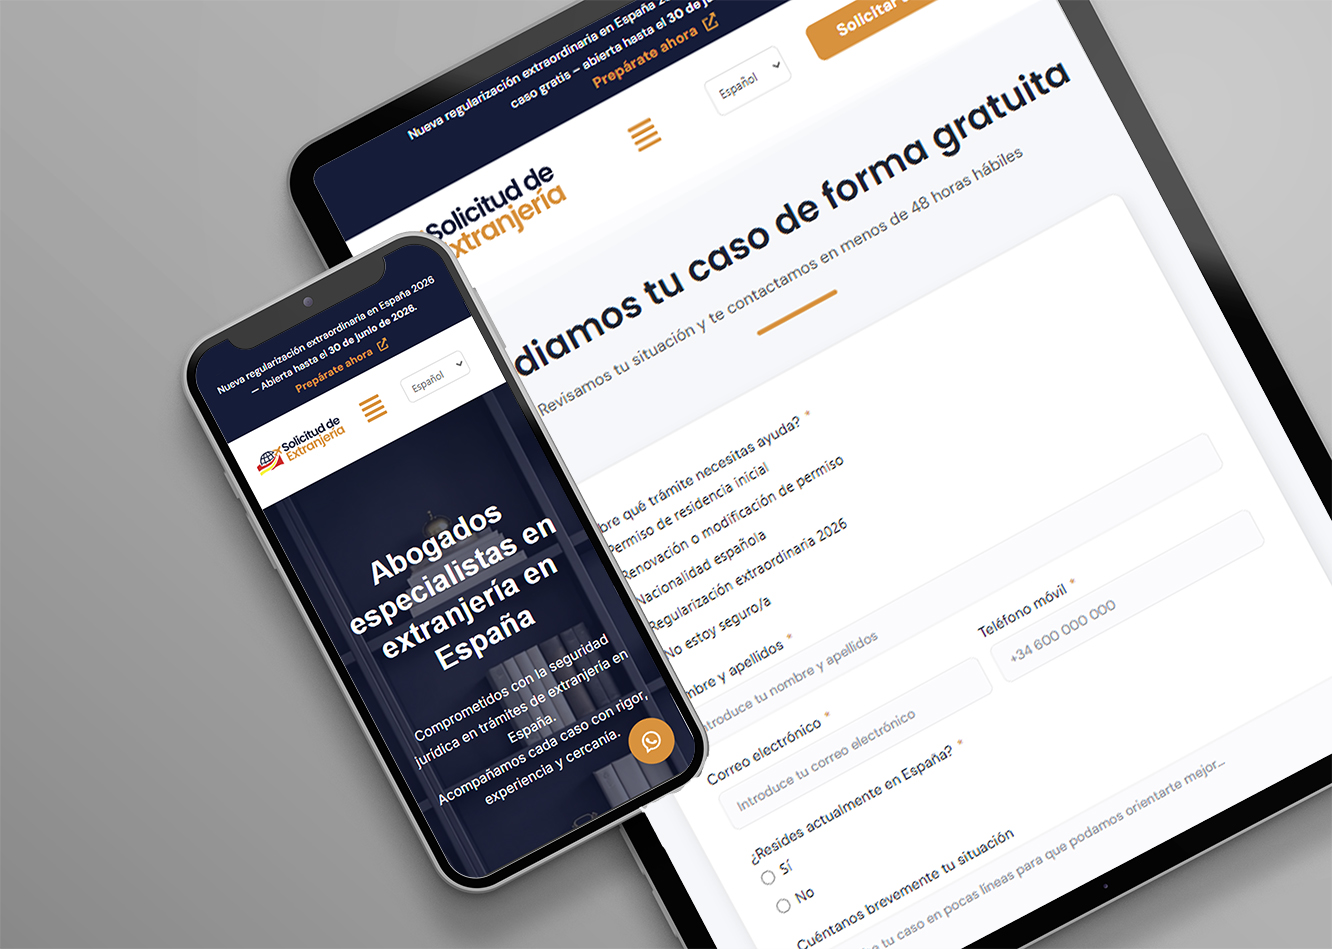
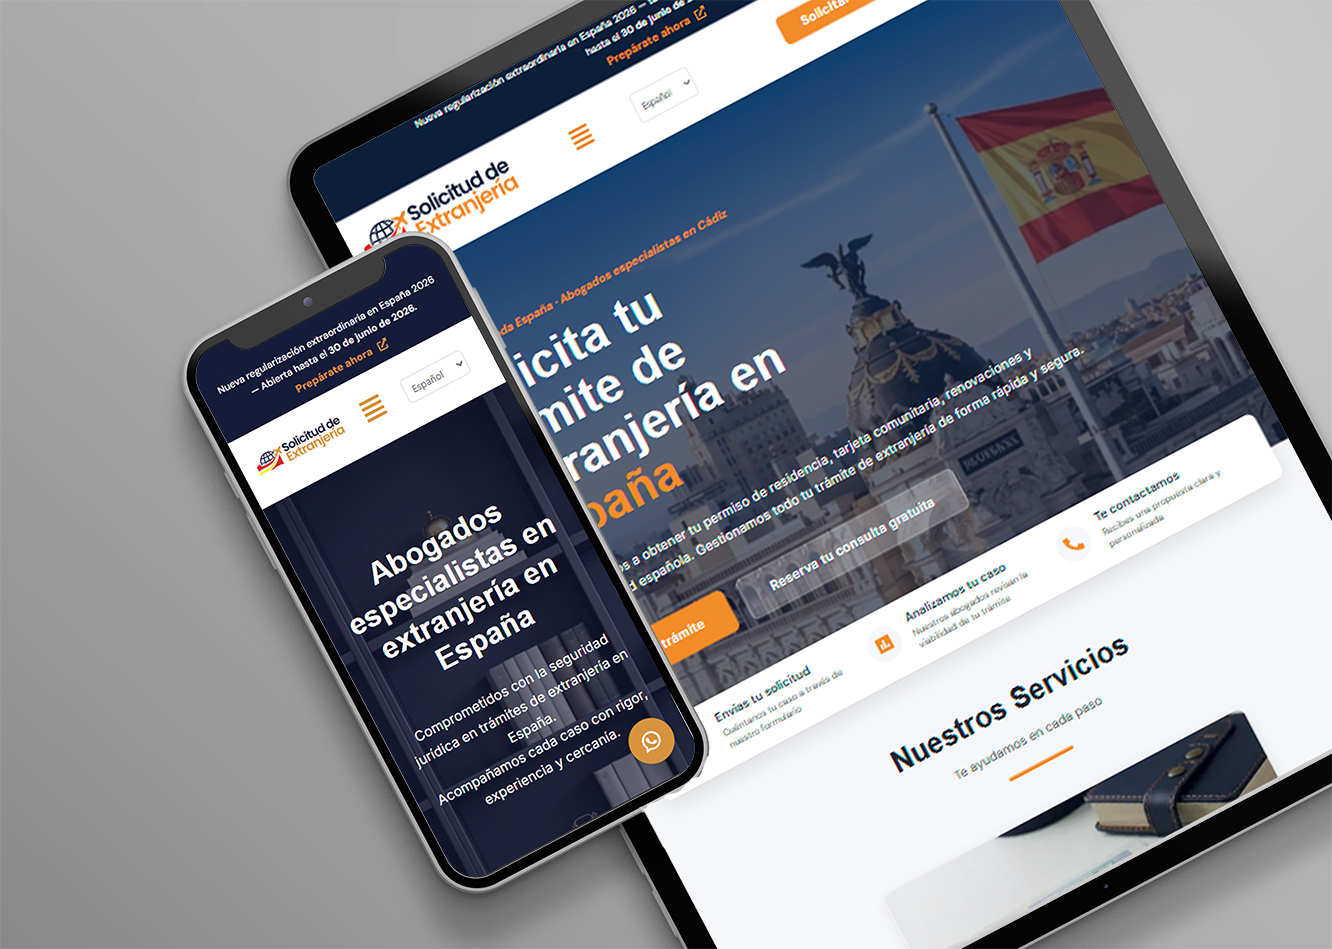
Añado proyecto web extranjeria

diff --git a/index.html b/index.html
@@ -139,7 +139,7 @@
 
                 <!-- Proyecto Tienda Online Tubesan -->
                 <article class="project">
-                    <div class="project-image slider">        
+                    <div class="project-image slider">
                         <div class="slide active">
                             <picture>
                                 <source srcset="img/image/tubesanresponsive.webp" type="image/webp"
@@ -182,7 +182,7 @@
                                 <img src="img/image/tubesanproducto2.jpg" alt="Tienda online - ficha de producto">
                             </picture>
                         </div>
-                        
+
 
                         <div class="slider-controls">
                             <button class="prev">❮</button>
@@ -210,14 +210,88 @@
                             <span>WordPress</span>
                             <span>Elementor</span>
                             <span>WooCommerce</span>
-                            <span>Google Search Console</span>
                             <span>Google Ads</span>
+                            <span>Illustrator</span>
+                            <span>Photoshop</span>
+
                         </div>
                     </div>
 
                     <div class="project-buttons">
                         <div class="linkedin-button">
                             <a href="https://tubesan.es/tienda/" target="_blank" class="button">
+                                <img src="img/icons/sitio-web.webp" alt="Tienda online Tubesan">
+                                <span>Visitar</span>
+                            </a>
+                        </div>
+                    </div>
+                </article>
+
+                <!-- Proyecto Landing Page Extranjería -->
+                <article class="project">
+                    <div class="project-image slider">
+                        <div class="slide active">
+                            <picture>
+                                <source srcset="img/image/extranjeria-responsive.webp" type="image/webp"
+                                    alt="Landing Page - Tablet y Móvil">
+                                <img src="img/image/extranjeria-responsive.jpg" alt="Landing Page - Tablet y Móvil">
+                            </picture>
+                        </div>
+                        <div class="slide">
+                            <picture>
+                                <source srcset="img/image/extranjeria.webp" type="image/webp"
+                                    alt="Landing Page - Home en PC">
+                                <img src="img/image/extranjeria.jpg" alt="Landing Page - Home en PC">
+                            </picture>
+                        </div>
+                        <div class="slide">
+                            <picture>
+                                <source srcset="img/image/extranjeria2.webp" type="image/webp"
+                                    alt="Landing Page - vista escritorio">
+                                <img src="img/image/extranjeria2.jpg" alt="Landing Page - vista escritorio">
+                            </picture>
+                        </div>
+                        <div class="slide">
+                            <picture>
+                                <source srcset="img/image/extranjeria3.webp" type="image/webp"
+                                    alt="Landing Page - Productos">
+                                <img src="img/image/extranjeria3.jpg" alt="Landing Page - Productos">
+                            </picture>
+                        </div>
+
+                        <div class="slider-controls">
+                            <button class="prev">❮</button>
+                            <button class="next">❯</button>
+                        </div>
+                    </div>
+
+                    <div class="project-description">
+                        <h3>Web 'Solicitud de Extranjería' – Desarrollo Web, UX/UI y SEO</h3>
+                        <p>
+                            Web corporativa para un abogado especializado en extranjería, diseñada con un claro enfoque
+                            en la <strong>captación de clientes</strong>.
+                            Fui responsable de la <strong>creación completa desde cero</strong>, incluyendo diseño
+                            UX/UI, estructura y desarrollo.
+                            <br><br>
+                            Se trabajó una arquitectura clara para explicar los distintos trámites y guiar al usuario
+                            hacia la acción, incorporando <strong>CTAs estratégicos</strong> como formularios de
+                            contacto y <strong>sistema de reserva de citas online</strong>.
+                            <br><br>
+                            El proyecto incluye optimización SEO on-page y local, <strong>indexación en
+                                buscadores</strong> y mejora del rendimiento, creando una web real orientada a <strong>conversión y visibilidad</strong>.
+                        </p>
+
+                        <div class="skills">
+                            <span>WordPress</span>
+                            <span>Elementor</span>
+                            <span>Photoshop</span>
+                            <span>HTML/CSS</span>
+                        </div>
+                    </div>
+
+                    <div class="project-buttons">
+                        <div class="linkedin-button">
+                            <a href="https://solicitudextranjeria.com/" target="_blank" class="button">
                                 <img src="img/icons/sitio-web.webp" alt="Tienda online Tubesan">
                                 <span>Visitar</span>
                             </a>
@@ -488,7 +562,7 @@
                                 <img src="img/image/playasweb2.jpg" alt="Web navegando en pc">
                             </picture>
                         </div>
-                        
+
                         <div class="slider-controls">
                             <button class="prev">❮</button>
                             <button class="next">❯</button>
@@ -496,7 +570,8 @@
                     </div>
                     <div class="project-description">
                         <h3>Web 'Playas de Cádiz'</h3>
-                        <p>Las Playas de Cádiz es un proyecto de <strong>diseño y desarrollo front-end creado desde cero</strong>,
+                        <p>Las Playas de Cádiz es un proyecto de <strong>diseño y desarrollo front-end creado desde
+                                cero</strong>,
                             enfocado en ofrecer una experiencia visual cuidada y una navegación intuitiva para descubrir
                             las playas más emblemáticas de la provincia de Cádiz.
 
